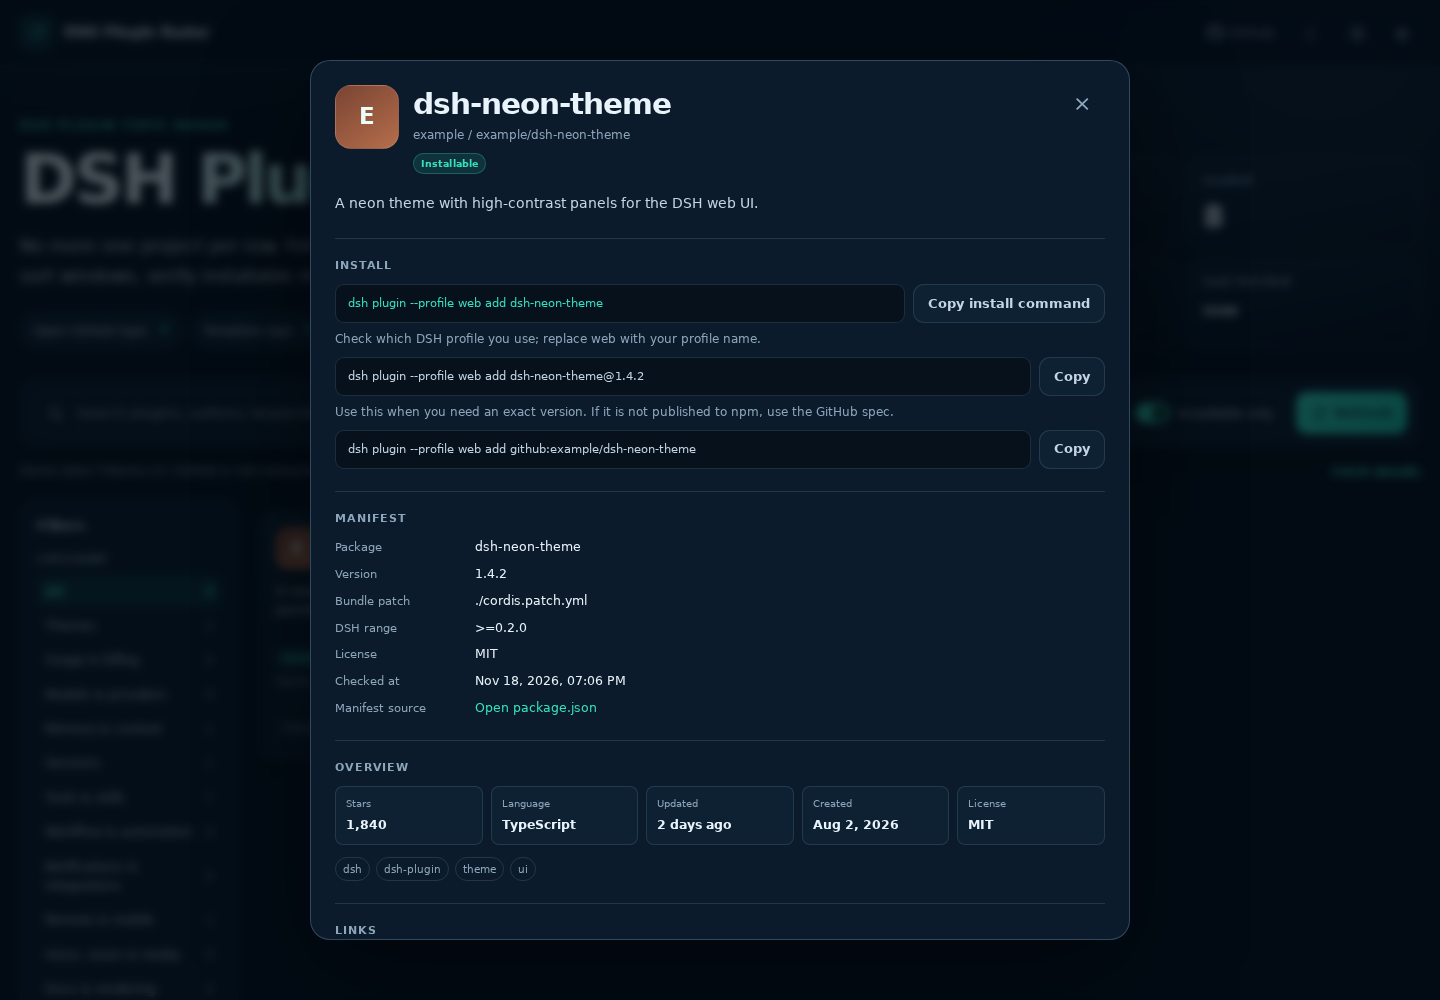
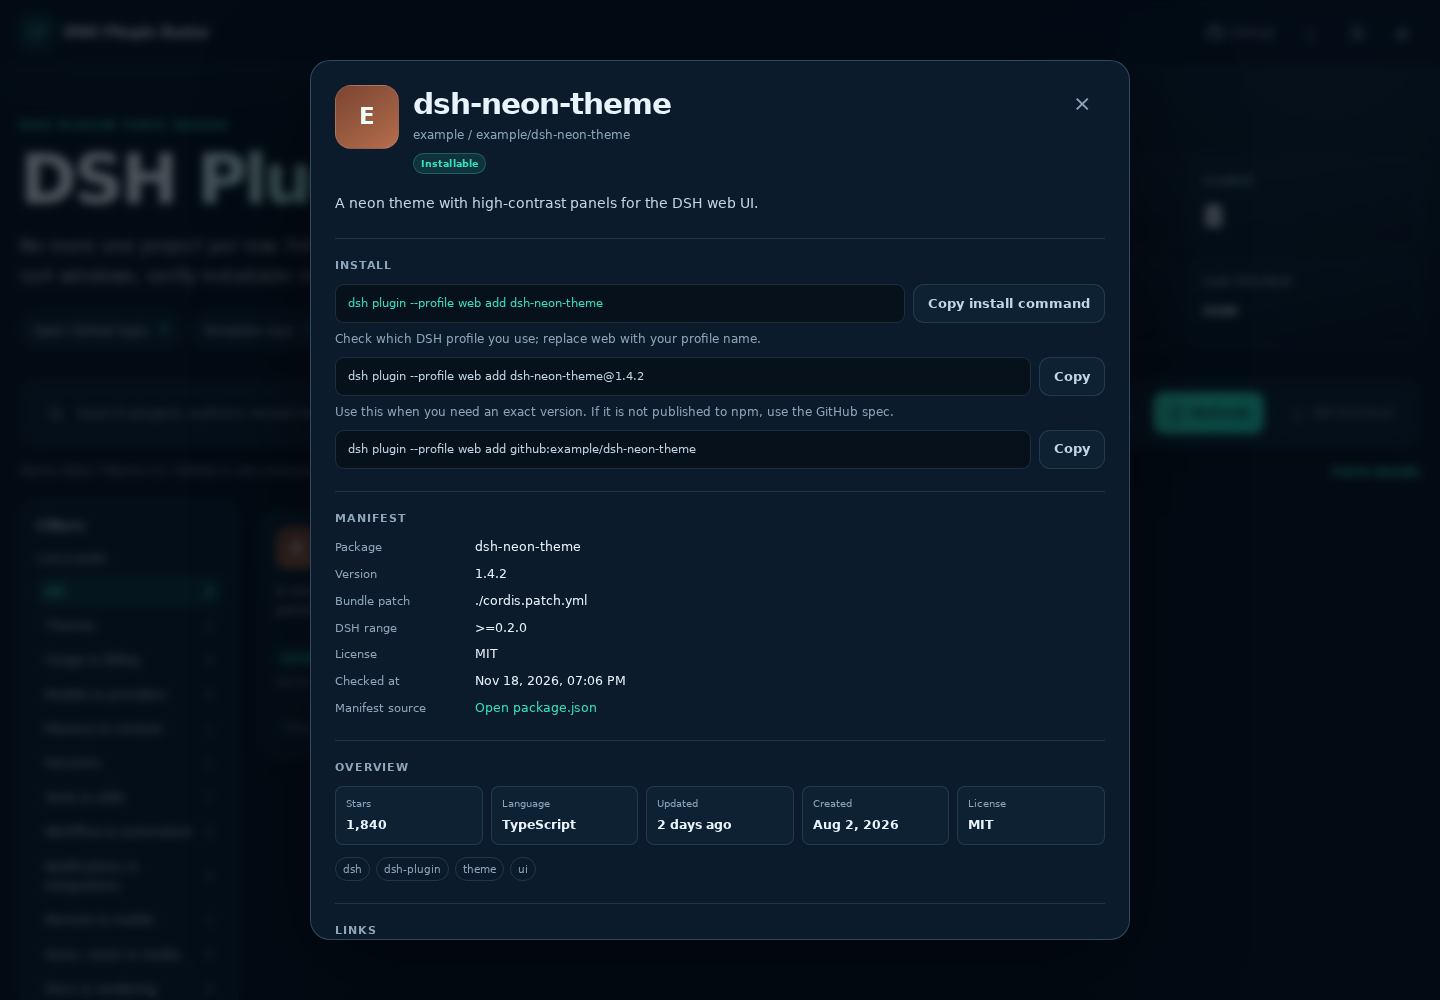
feat: add fetch-all with stop and rate-limit waiting

Changed region(s): [[0.7812, 0.372, 1.0, 0.434]]

diff --git a/assets/app.js b/assets/app.js
@@ -20,7 +20,7 @@ import {
   verificationPriority,
 } from './state.js'
 import { UI } from './ui.js'
-import { debounce, isAbortError } from './util.js'
+import { debounce, isAbortError, sleep } from './util.js'
 
 const TOKEN_KEY = 'dsh-radar-token'
 const LANG_KEY = 'dsh-radar-lang'
@@ -93,6 +93,7 @@ const state = {
   visibleCount: CONFIG.batchSize,
   renderedCount: 0,
   hasMoreRemote: false,
+  fetchAll: false,
   hasToken: Boolean(readSessionToken()),
 }
 
@@ -102,6 +103,8 @@ let client = null
 let verifier = null
 let activeController = null
 let pendingDetailKey = null
+let fetchAllRunning = false
+let fetchAllAbort = null
 
 function recomputeResults() {
   state.results = computeResults([...state.repositories.values()], state.filters, state.lang)
@@ -311,13 +314,18 @@ const actions = {
   },
 
   retry() {
-    if (state.loading) return
+    if (state.loading || state.fetchAll) return
     if (state.hasMoreRemote) loadNextTask()
     else refreshFromScratch()
   },
 
+  toggleFetchAll() {
+    if (state.fetchAll) stopFetchAll()
+    else startFetchAll()
+  },
+
   loadMoreRemote() {
-    if (!state.hasMoreRemote || state.loading) return
+    if (!state.hasMoreRemote || state.loading || state.fetchAll) return
     loadNextTask()
   },
 
@@ -340,6 +348,7 @@ const actions = {
   },
 
   async clearCache() {
+    stopFetchAll()
     if (activeController) activeController.abort()
     activeController = null
     state.loading = false
@@ -532,21 +541,22 @@ function updateRemoteAvailability() {
  * again only when the visitor reaches the bottom or clicks "load more".
  */
 async function loadNextTask() {
-  if (state.demo || !client || state.loading) return
+  if (state.demo || !client) return 'unavailable'
+  if (state.loading) return 'busy'
   if (state.repositories.size >= CONFIG.maxRepos) {
     state.hasMoreRemote = false
     state.meta.complete = true
     updateProgress()
     persistMeta()
     ui.renderAll({ preserveScroll: true })
-    return
+    return 'no-more'
   }
   const task = nextTask()
   if (!task) {
     updateRemoteAvailability()
     updateProgress()
     ui.renderAll({ preserveScroll: true })
-    return
+    return 'no-more'
   }
 
   const controller = new AbortController()
@@ -593,8 +603,11 @@ async function loadNextTask() {
     ui.renderStatus()
     ui.renderRate()
     scheduleDataUpdate()
+    return 'ok'
   } catch (error) {
     handleFetchError(error)
+    if (isAbortError(error)) return 'aborted'
+    return error instanceof GitHubError ? error.kind : 'error'
   } finally {
     if (activeController === controller) {
       activeController = null
@@ -611,6 +624,7 @@ async function loadNextTask() {
 /** Refresh drops only the page cursors: existing cards stay while page 1 reloads. */
 async function refreshFromScratch() {
   if (state.demo) return
+  stopFetchAll()
   if (activeController) activeController.abort()
   activeController = null
   state.loading = false
@@ -621,6 +635,68 @@ async function refreshFromScratch() {
   updateProgress()
   ui.renderAll({ preserveScroll: true })
   await loadNextTask()
+}
+
+/**
+ * Fetch every remaining search page in one run. This is the only path that
+ * intentionally continues in the background, and it can be stopped at any
+ * time. Rate limits are waited out instead of aborting the whole run.
+ */
+async function startFetchAll() {
+  if (state.demo || fetchAllRunning || state.loading || !state.hasMoreRemote) return
+  fetchAllRunning = true
+  state.fetchAll = true
+  state.error = null
+  fetchAllAbort = new AbortController()
+  const signal = fetchAllAbort.signal
+  ui.renderAll({ preserveScroll: true })
+  try {
+    while (fetchAllRunning && state.hasMoreRemote) {
+      const result = await loadNextTask()
+      if (!fetchAllRunning) break
+      if (result === 'ok') continue
+      if (result === 'no-more' || result === 'unavailable' || result === 'aborted') break
+      if (result === 'busy') {
+        try {
+          await sleep(250, signal)
+        } catch {
+          break
+        }
+        continue
+      }
+      if (result === 'rate-limit') {
+        const wait = Math.max(1_000, (state.error?.resetAt || Date.now() + 60_000) - Date.now() + 500)
+        ui.renderAll({ preserveScroll: true })
+        try {
+          await sleep(wait, signal)
+        } catch {
+          break
+        }
+        state.error = null
+        ui.renderAll({ preserveScroll: true })
+        continue
+      }
+      break
+    }
+  } finally {
+    fetchAllRunning = false
+    state.fetchAll = false
+    fetchAllAbort = null
+    if (ui) {
+      ui.remoteArmed = false
+      ui.renderAll({ preserveScroll: true })
+    }
+  }
+}
+
+function stopFetchAll() {
+  if (!fetchAllRunning && !state.fetchAll) return
+  fetchAllRunning = false
+  state.fetchAll = false
+  state.error = null
+  if (fetchAllAbort) fetchAllAbort.abort()
+  if (activeController) activeController.abort()
+  if (ui) ui.renderAll({ preserveScroll: true })
 }
 
 async function init() {

diff --git a/assets/ui.js b/assets/ui.js
@@ -53,6 +53,7 @@ export class UI {
    *     verifyNow: (key: string) => void,
    *     loadMoreRemote: () => void,
    *     retry: () => void,
+   *     toggleFetchAll: () => void,
    *   },
    * }} options
    */
@@ -124,6 +125,7 @@ export class UI {
       rateLine: byId('rate-line'),
       cacheLine: byId('cache-line'),
       refresh: byId('refresh-button'),
+      fetchAllButton: byId('fetch-all-button'),
       errorBanner: byId('error-banner'),
       errorTitle: byId('error-title'),
       errorBody: byId('error-body'),
@@ -252,6 +254,7 @@ export class UI {
     })
     this.els.loadMore?.addEventListener('click', () => this.loadMore())
     this.els.refresh?.addEventListener('click', () => this.actions.refresh())
+    this.els.fetchAllButton?.addEventListener('click', () => this.actions.toggleFetchAll())
     this.els.errorRetry?.addEventListener('click', () => this.actions.retry())
     this.els.progressToggle?.addEventListener('click', () => this.toggleProgress())
     this.els.langToggle?.addEventListener('click', () => this.toggleLanguage())
@@ -310,7 +313,12 @@ export class UI {
           this.loadMore()
           return
         }
-        if (this.remoteArmed && this.state.hasMoreRemote && !this.state.loading) {
+        if (
+          this.remoteArmed &&
+          this.state.hasMoreRemote &&
+          !this.state.loading &&
+          !this.state.fetchAll
+        ) {
           this.remoteArmed = false
           this.actions.loadMoreRemote()
         }
@@ -362,6 +370,7 @@ export class UI {
     const scrollY = preserveScroll ? window.scrollY : null
     this.renderStats()
     this.renderWindows()
+    this.renderFetchAllButton()
     this.renderFilters()
     this.renderActiveFilters()
     this.renderGrid({ reset })
@@ -472,6 +481,28 @@ export class UI {
     if (this.els.days) this.els.days.value = String(this.state.filters.days || 0)
     if (this.els.archived) this.els.archived.checked = Boolean(this.state.filters.archived)
     this.renderFilterCount()
+  }
+
+  renderFetchAllButton() {
+    const button = this.els.fetchAllButton
+    if (!button) return
+    const running = Boolean(this.state.fetchAll)
+    const noMoreKnown = !this.state.loading && !this.state.hasMoreRemote
+    const span = button.querySelector('span')
+    const label = running
+      ? t('actions.stopFetchAll')
+      : noMoreKnown
+        ? t('actions.allFetched')
+        : t('actions.fetchAll')
+    if (span) span.textContent = label
+    button.disabled = this.state.demo || (!running && (Boolean(this.state.loading) || noMoreKnown))
+    button.title = running
+      ? t('actions.stopFetchAll')
+      : noMoreKnown
+        ? t('actions.allFetched')
+        : t('actions.fetchAllTitle')
+    button.setAttribute('aria-pressed', String(running))
+    button.classList.toggle('is-running', running)
   }
 
   renderFilterCount() {
@@ -685,8 +716,9 @@ export class UI {
     const remoteMore = Boolean(this.state.hasMoreRemote)
     const more = localMore || remoteMore
     const searching = Boolean(this.state.loading)
+    const fetchingAll = Boolean(this.state.fetchAll)
     const verifying = (this.state.verification?.active || 0) > 0
-    if (this.els.loadMore) this.els.loadMore.hidden = !more || searching
+    if (this.els.loadMore) this.els.loadMore.hidden = !more || searching || fetchingAll
     if (this.els.loadingMore) {
       this.els.loadingMore.hidden = !(searching && !localMore) && !(verifying && results.length === 0)
     }
@@ -695,6 +727,7 @@ export class UI {
   }
 
   loadMore() {
+    if (this.state.fetchAll) return
     const results = this.state.results || []
     if ((this.state.renderedCount || 0) < results.length) {
       this.state.visibleCount = nextVisibleCount(
@@ -732,7 +765,13 @@ export class UI {
     } else if (this.state.loading) {
       const done = this.state.progress?.done || 0
       const total = this.state.progress?.total || 0
-      text = total ? t('status.fetching', { done, total }) : t('status.loading')
+      text = total
+        ? t(this.state.fetchAll ? 'status.fetchingAll' : 'status.fetching', { done, total })
+        : t('status.loading')
+    } else if (this.state.fetchAll && this.state.hasMoreRemote) {
+      const done = this.state.progress?.done || 0
+      const total = this.state.progress?.total || 0
+      text = t('status.fetchingAll', { done, total })
     } else if ((this.state.verification?.active || 0) > 0 && (this.state.results || []).length === 0) {
       text = t('status.verifying', {
         done: this.state.verification.attempted || 0,

diff --git a/assets/i18n.js b/assets/i18n.js
@@ -51,6 +51,10 @@ export const STRINGS = {
     'filter.remove': '移除筛选 {name}',
 
     'actions.refresh': '刷新',
+    'actions.fetchAll': '全部抓取',
+    'actions.stopFetchAll': '停止抓取',
+    'actions.allFetched': '已全部抓取',
+    'actions.fetchAllTitle': '抓取所有剩余的搜索页；未登录会受 10 次/分钟限制，可随时停止',
     'actions.settings': '设置',
     'actions.copy': '复制安装命令',
     'actions.copied': '已复制',
@@ -66,6 +70,7 @@ export const STRINGS = {
     'status.ready': '已加载 {loaded} 个仓库，其中 {verified} 个清单可安装。',
     'status.cached': '来自本地缓存（{age}）。',
     'status.fetching': '正在抓取 GitHub：{done}/{total} 个窗口页。',
+    'status.fetchingAll': '全部抓取中：{done}/{total} 个窗口页。',
     'status.fetchingMore': '正在抓取更多…',
     'status.verifying': '正在校验 package.json：{done}/{total}。',
     'status.empty': '没有匹配的插件',
@@ -245,6 +250,10 @@ export const STRINGS = {
     'filter.remove': 'Remove filter {name}',
 
     'actions.refresh': 'Refresh',
+    'actions.fetchAll': 'Fetch all',
+    'actions.stopFetchAll': 'Stop fetching',
+    'actions.allFetched': 'All fetched',
+    'actions.fetchAllTitle': 'Fetch every remaining search page. Anonymous mode is limited to 10 requests/minute; you can stop at any time.',
     'actions.settings': 'Settings',
     'actions.copy': 'Copy install command',
     'actions.copied': 'Copied',
@@ -260,6 +269,7 @@ export const STRINGS = {
     'status.ready': 'Loaded {loaded} repositories, {verified} with an installable manifest.',
     'status.cached': 'From local cache ({age}).',
     'status.fetching': 'Fetching GitHub: {done}/{total} window pages.',
+    'status.fetchingAll': 'Fetching all: {done}/{total} window pages.',
     'status.fetchingMore': 'Fetching more…',
     'status.verifying': 'Checking package.json: {done}/{total}.',
     'status.empty': 'No matching plugins',

diff --git a/index.html b/index.html
@@ -117,6 +117,11 @@
         <svg viewBox="0 0 24 24" aria-hidden="true" focusable="false"><path d="M20 11a8 8 0 1 0-2.3 6.7M20 4v7h-7" fill="none" stroke="currentColor" stroke-width="1.8" stroke-linecap="round" stroke-linejoin="round"/></svg>
         <span data-i18n="actions.refresh">刷新</span>
       </button>
+
+      <button id="fetch-all-button" class="button button-quiet fetch-all-button" type="button">
+        <svg viewBox="0 0 24 24" aria-hidden="true" focusable="false"><path d="M12 4v11M7 10l5 5 5-5M5 20h14" fill="none" stroke="currentColor" stroke-width="1.8" stroke-linecap="round" stroke-linejoin="round"/></svg>
+        <span data-i18n="actions.fetchAll">全部抓取</span>
+      </button>
     </section>
 
     <div class="status-row">

diff --git a/assets/config.js b/assets/config.js
@@ -28,12 +28,12 @@ export const CONFIG = {
 
   /** GitHub Search API allows at most 100 per page and 1,000 results per query. */
   perPage: 100,
-  maxRepos: 2_500,
+  maxRepos: 3_000,
   /** Cards appended per infinite-scroll batch. */
   batchSize: 36,
   verify: {
     /** How many candidates are checked automatically in one load. */
-    limit: 1_000,
+    limit: 3_000,
     concurrency: 5,
     rawTimeoutMs: 2_500,
     cdnTimeoutMs: 4_500,

diff --git a/assets/style.css b/assets/style.css
@@ -560,6 +560,19 @@ select:focus {
   color: var(--text);
 }
 
+.button:disabled {
+  opacity: 0.45;
+  cursor: not-allowed;
+  filter: none;
+  transform: none;
+}
+
+.fetch-all-button.is-running {
+  border-color: rgba(255, 122, 138, 0.4);
+  background: var(--danger-bg);
+  color: var(--danger);
+}
+
 .button svg {
   width: 17px;
   height: 17px;

diff --git a/README.md b/README.md
@@ -11,12 +11,12 @@
 
 ## 它解决什么问题
 
-GitHub 的 topic 页面是纵向大列表，一个项目占一整行；而且 `dsh-plugin` 里混入了大量只是顺手加了 topic 的高 Star 项目。这个页面做了三件事：
+GitHub 的 topic 页面是纵向大列表，一个项目占一整行；而且 `dsh-plugin` 里混入了大量只是顺手加了 topic 的高 Star 项目。这个页面做了四件事：
 
 1. **按多个顺序抓取**：Star 最多、最近更新、最近 90 天创建、最佳匹配，四个窗口交叉采样，去重后展示。
 2. **按清单过滤**：读取每个候选仓库根目录的 `package.json`，只有声明了 `dsh.bundle.patch` 且版本合法的仓库才标为“清单可安装”。
 3. **重新编排**：响应式卡片网格（桌面 4–5 列、平板 2–3 列、手机 1 列），滚动到底自动加载下一批，不再一行一个项目。
-4. **按需抓取**：首次只抓一页，后续只有滚动到底/点击“加载更多”才继续请求 GitHub；不会在后台把全部页面刷完。
+4. **按需抓取 + 全部抓取**：默认首次只抓一页，后续只有滚动到底/点击“加载更多”才继续请求 GitHub；工具栏的“全部抓取”可以一次性抓完剩余页面，并随时停止。
 
 ## 使用
 
@@ -28,6 +28,7 @@ GitHub 的 topic 页面是纵向大列表，一个项目占一整行；而且 `d
 - 每次只发一个搜索请求；这一页抓完后只校验该页仓库的 `package.json`，不会继续请求下一页；
 - 未登录仍受 10 次/分钟限制，填 Token 后 30 次/分钟；
 - 数据缓存在 IndexedDB，再次打开直接秒开，不会自动续抓；页面上的“刷新”会重置进度并重抓第一页。
+- 想一次抓完：点工具栏的“全部抓取”。它会自动等待搜索限流，抓完所有 26 页后停止；运行中按钮会变成“停止抓取”。
 
 ### 可选 Token
 
@@ -91,6 +92,7 @@ export const CONFIG = {
 - **只走 GitHub Search API**：GitHub topic 的 HTML 没有 CORS，浏览器无法直接读取，因此使用官方 Search API；`raw.githubusercontent.com` 和 `cdn.jsdelivr.net` 用于读取 `package.json`，两者都允许跨域。
 - **每个查询最多 1,000 条**：所以这不是全量 3.27 万条，而是多个窗口的 Top N 采样。页面会显示各窗口进度和覆盖数量。
 - **未登录限流**：搜索 10 次/分钟；配额耗尽时显示错误和重试按钮，缓存不会丢。等待后点重试或继续滚动即可。填 Token 可提升到 30 次/分钟。
+- **全部抓取**：会连续请求剩余页面，未登录时约 3 分钟（26 页、含限流等待）；运行中可随时停止。它会自动等待限流，不会丢掉已抓页面。
 - **只校验仓库根清单**：monorepo 的插件如果放在 `packages/` 子目录，会被标为“仅 topic 标签”；页面的详情里会提示去仓库确认。
 - **raw 网络回退**：`raw.githubusercontent.com` 不可达时自动尝试 jsDelivr；两者都失败会标记 `unreachable`，不会阻塞其他卡片。
 - **不是安全审计**：“清单可安装”只代表仓库声明了 `dsh.bundle.patch`，不保证代码安全。安装插件会以你的权限执行第三方代码。
